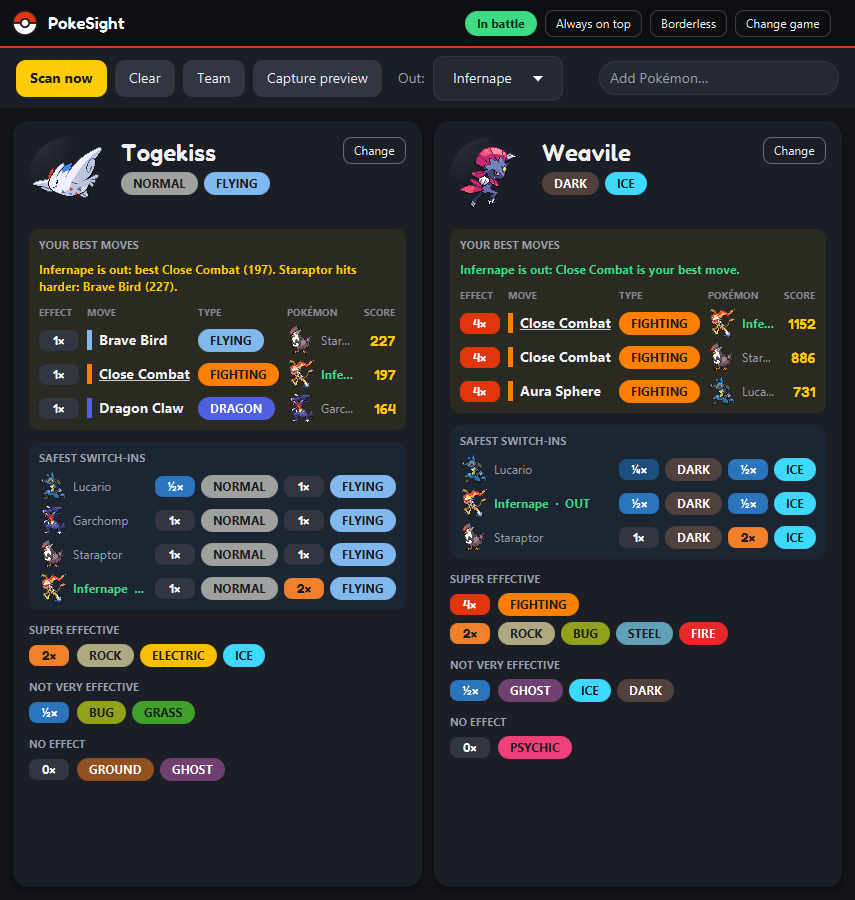
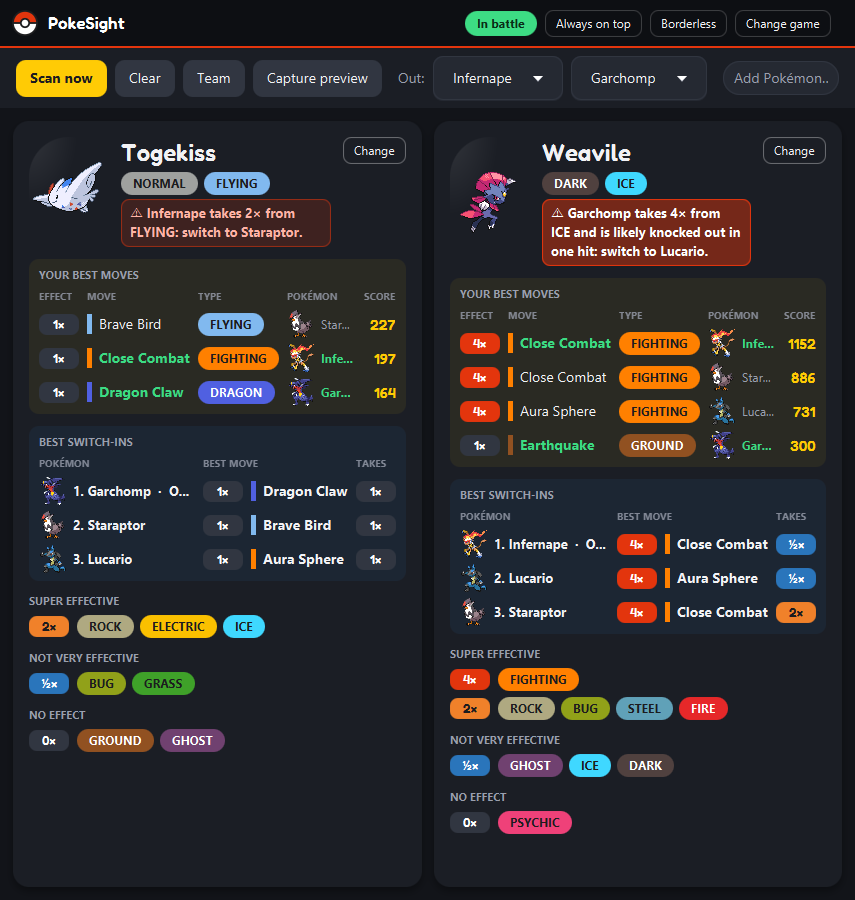
DOCS: README screenshots of PokeSight 1.6.0
Single battle: Mamoswine with the 4x danger warning and the best switch-ins; double battle: Togekiss and Weavile each warn which of your two Pokémon they counter.

diff --git a/README.md b/README.md
@@ -12,7 +12,7 @@ or memory access.
 
 | Single battle | Double battle |
 |---|---|
-| ![A battle against Tyranitar in Platinum: Garchomp is out, Infernape hits harder; safest switch-ins and all weaknesses, resistances and immunities](docs/screenshots/battle-single.png) | ![Double battle: Togekiss and Weavile side by side](docs/screenshots/battle-double.png) |
+| ![A battle against Mamoswine in Platinum: Garchomp is out and takes 4× from Ice, switch to Lucario; your best moves, the best switch-ins and all weaknesses, resistances and immunities](docs/screenshots/battle-single.png) | ![Double battle against Togekiss and Weavile: each card warns which of your two Pokémon on the field it counters](docs/screenshots/battle-double.png) |
 
 - Single, double and triple battles and hordes, auto-detection plus **Scan now** if a battle was missed
 - Correct a misread Pokémon or add one by hand with a name search
